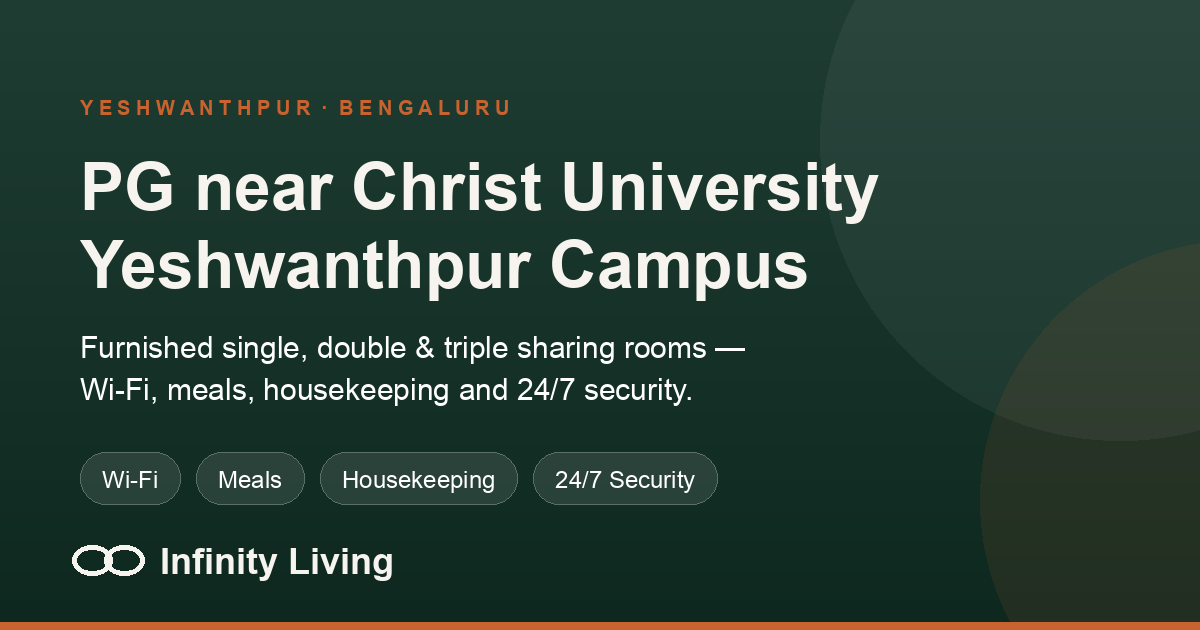
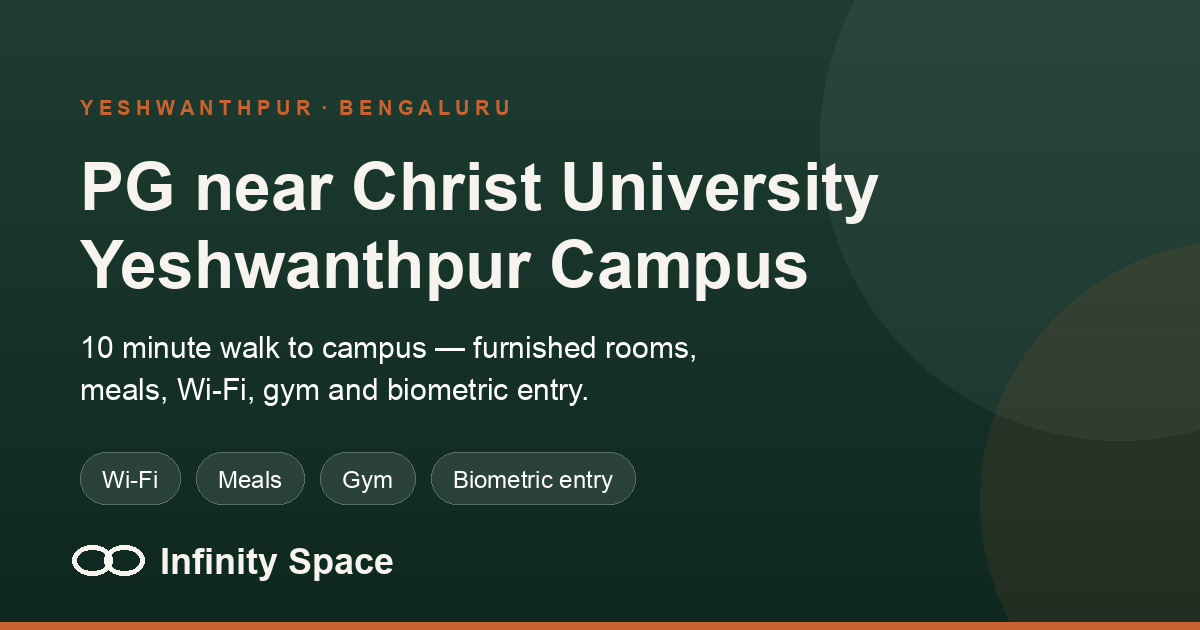
Rename the brand to Infinity Space
Matches the signage in the entrance photo, the Google Business Profile and
infinityspace4u.com. Name/address/phone consistency between the site and the
Google listing is one of the stronger local ranking signals, and the old name
was contradicting the photograph it sat next to.

44 occurrences across 18 files: metadata title and template, Open Graph and
Twitter cards, LocalBusiness JSON-LD, the logo lockup, every image alt, the
WhatsApp prefilled messages, section copy, FAQ answers, both audience pages
and the README.

The OG card was regenerated rather than edited — the old name was baked into
it as pixels. Took the chance to put the now-verified facts on it too: the
10 minute walk, the gym and biometric entry.

Verified: zero "Infinity Living" left in the server-rendered HTML of all
three routes.

diff --git a/src/components/LifeAt.tsx b/src/components/LifeAt.tsx
@@ -11,7 +11,7 @@ export default function LifeAt() {
           <div className="lg:col-span-5 lg:pt-16">
             <Figure
               src="/images/gym.jpg"
-              alt="The gym at Infinity Living PG near Christ University Yeshwanthpur Campus — treadmills, cross trainer and weights"
+              alt="The gym at Infinity Space PG near Christ University Yeshwanthpur Campus — treadmills, cross trainer and weights"
               className="aspect-[4/3] rounded-[1.5rem]"
               sizes="(max-width: 1024px) 100vw, 40vw"
               parallax={6}
@@ -22,7 +22,7 @@ export default function LifeAt() {
             <Reveal>
               <p className="t-label flex items-center gap-3 text-clay">
                 <span className="inline-block h-px w-8 bg-current opacity-50" aria-hidden="true" />
-                Life at Infinity Living
+                Life at Infinity Space
               </p>
             </Reveal>
             <SplitText
@@ -41,13 +41,13 @@ export default function LifeAt() {
             <div className="mt-10 grid gap-5 sm:grid-cols-2">
               <Figure
                 src="/images/living-room-2.jpg"
-                alt="The shared living room at Infinity Living PG, Yeshwanthpur, Bengaluru"
+                alt="The shared living room at Infinity Space PG, Yeshwanthpur, Bengaluru"
                 className="aspect-[4/3] rounded-[1.25rem] sm:mt-10"
                 sizes="(max-width: 640px) 100vw, 30vw"
               />
               <Figure
                 src="/images/entry-biometric.jpg"
-                alt="Biometric entry at Infinity Living PG, Yeshwanthpur, Bengaluru"
+                alt="Biometric entry at Infinity Space PG, Yeshwanthpur, Bengaluru"
                 className="hidden aspect-[3/4] rounded-[1.25rem] sm:block"
                 sizes="(max-width: 640px) 100vw, 30vw"
               />
@@ -56,7 +56,7 @@ export default function LifeAt() {
             <div className="mt-5 grid gap-5 sm:grid-cols-[1.4fr_1fr] sm:items-end">
               <Figure
                 src="/images/room-double.jpg"
-                alt="A double sharing room at Infinity Living PG near Christ University Yeshwanthpur Campus"
+                alt="A double sharing room at Infinity Space PG near Christ University Yeshwanthpur Campus"
                 className="hidden aspect-[16/10] rounded-[1.25rem] sm:block"
                 sizes="(max-width: 640px) 100vw, 35vw"
               />

diff --git a/src/components/Gallery.tsx b/src/components/Gallery.tsx
@@ -8,13 +8,13 @@ import SectionHead from "./ui/SectionHead";
 import Figure from "./ui/Figure";
 
 const SHOTS = [
-  { src: "/images/room-double.jpg", alt: "Double sharing room with two beds, study table and storage at Infinity Living PG, Yeshwanthpur", span: "" },
-  { src: "/images/entrance.jpg", alt: "The entrance at Infinity Living PG near Christ University Yeshwanthpur Campus, Bengaluru", span: "" },
-  { src: "/images/living-room.jpg", alt: "Shared living room with sofa seating at Infinity Living PG, Yeshwanthpur, Bengaluru", span: "" },
-  { src: "/images/gym.jpg", alt: "Gym at Infinity Living PG — treadmills, cross trainer, bench and weights", span: "" },
-  { src: "/images/bathroom.jpg", alt: "Attached bathroom at Infinity Living PG, Yeshwanthpur, Bengaluru", span: "" },
-  { src: "/images/hero.jpg", alt: "Common area with snooker table and lounge seating at Infinity Living PG, Yeshwanthpur", span: "" },
-  { src: "/images/entry-biometric.jpg", alt: "Biometric secure entry at Infinity Living PG, Yeshwanthpur", span: "" },
+  { src: "/images/room-double.jpg", alt: "Double sharing room with two beds, study table and storage at Infinity Space PG, Yeshwanthpur", span: "" },
+  { src: "/images/entrance.jpg", alt: "The entrance at Infinity Space PG near Christ University Yeshwanthpur Campus, Bengaluru", span: "" },
+  { src: "/images/living-room.jpg", alt: "Shared living room with sofa seating at Infinity Space PG, Yeshwanthpur, Bengaluru", span: "" },
+  { src: "/images/gym.jpg", alt: "Gym at Infinity Space PG — treadmills, cross trainer, bench and weights", span: "" },
+  { src: "/images/bathroom.jpg", alt: "Attached bathroom at Infinity Space PG, Yeshwanthpur, Bengaluru", span: "" },
+  { src: "/images/hero.jpg", alt: "Common area with snooker table and lounge seating at Infinity Space PG, Yeshwanthpur", span: "" },
+  { src: "/images/entry-biometric.jpg", alt: "Biometric secure entry at Infinity Space PG, Yeshwanthpur", span: "" },
 ];
 
 export default function Gallery() {

diff --git a/src/lib/site.ts b/src/lib/site.ts
@@ -13,7 +13,7 @@
 export const PLACEHOLDER = (label: string) => `[${label}]`;
 
 export const site = {
-  name: "Infinity Living",
+  name: "Infinity Space",
   tagline: "Premium student living near Christ University, Yeshwanthpur Campus",
   /** Used for canonical URLs, sitemap, OG tags. */
   url: "https://[YOUR-DOMAIN].com",
@@ -25,7 +25,7 @@ export const site = {
     phoneHref: "[PHONE NUMBER]",
     email: "[EMAIL ADDRESS]",
     whatsappMessage:
-      "Hi, I'm interested in a room at Infinity Living near Christ University Yeshwanthpur Campus. Could you share the available room options and pricing?",
+      "Hi, I'm interested in a room at Infinity Space near Christ University Yeshwanthpur Campus. Could you share the available room options and pricing?",
   },
 
   address: {
@@ -264,8 +264,8 @@ export const reviews = [
 
 export const faqs = [
   {
-    q: "How close is Infinity Living to Christ University Yeshwanthpur Campus?",
-    a: "Infinity Living is on Andrahalli Main Road, HMT Layout (560073) — the same pincode as the campus. It is about 850 m by road — roughly a 10 minute walk. Message us on WhatsApp and we'll share the exact pin.",
+    q: "How close is Infinity Space to Christ University Yeshwanthpur Campus?",
+    a: "Infinity Space is on Andrahalli Main Road, HMT Layout (560073) — the same pincode as the campus. It is about 850 m by road — roughly a 10 minute walk. Message us on WhatsApp and we'll share the exact pin.",
   },
   {
     q: "What is the monthly rent?",
@@ -329,7 +329,7 @@ export const isPlaceholder = (v: string) => /^\[.*\]$/.test(v.trim());
  * host is not a parseable URL. Fall back to a valid stand-in so builds,
  * sitemaps and OG tags keep working — swap site.url and this goes away.
  */
-export const FALLBACK_URL = "https://infinity-living.example.com";
+export const FALLBACK_URL = "https://infinity-space.example.com";
 
 export function baseUrl() {
   try {

diff --git a/src/app/layout.tsx b/src/app/layout.tsx
@@ -29,8 +29,8 @@ const jakarta = Plus_Jakarta_Sans({
 export const metadata: Metadata = {
   metadataBase: new URL(baseUrl()),
   title: {
-    default: "PG near Christ University Yeshwanthpur Campus | Infinity Living",
-    template: "%s | Infinity Living",
+    default: "PG near Christ University Yeshwanthpur Campus | Infinity Space",
+    template: "%s | Infinity Space",
   },
   description:
     "Furnished PG in Yeshwanthpur near Christ University Campus, Bengaluru. Single, double & triple sharing rooms with Wi-Fi, meals, housekeeping and 24/7 security.",
@@ -49,14 +49,14 @@ export const metadata: Metadata = {
     locale: "en_IN",
     url: "/",
     siteName: site.name,
-    title: "PG near Christ University Yeshwanthpur Campus | Infinity Living",
+    title: "PG near Christ University Yeshwanthpur Campus | Infinity Space",
     description:
       "Premium student living in Yeshwanthpur, Bengaluru — furnished rooms, meals, Wi-Fi and a short walk to Christ University Yeshwanthpur Campus.",
-    images: [{ url: "/images/og.png", width: 1200, height: 630, type: "image/png", alt: "Infinity Living — PG near Christ University Yeshwanthpur Campus" }],
+    images: [{ url: "/images/og.png", width: 1200, height: 630, type: "image/png", alt: "Infinity Space — PG near Christ University Yeshwanthpur Campus" }],
   },
   twitter: {
     card: "summary_large_image",
-    title: "PG near Christ University Yeshwanthpur Campus | Infinity Living",
+    title: "PG near Christ University Yeshwanthpur Campus | Infinity Space",
     description:
       "Furnished PG in Yeshwanthpur, Bengaluru — rooms, meals, Wi-Fi and 24/7 security, minutes from campus.",
     images: ["/images/og.png"],

diff --git a/src/components/AudiencePage.tsx b/src/components/AudiencePage.tsx
@@ -28,7 +28,7 @@ export default function AudiencePage({ a }: { a: Audience }) {
               href="/"
               className="link-u inline-flex items-center gap-2 text-[0.875rem] text-white/60 hover:text-white"
             >
-              <ArrowLeft className="size-4" aria-hidden="true" /> Infinity Living
+              <ArrowLeft className="size-4" aria-hidden="true" /> Infinity Space
             </a>
             <p className="t-label mt-6 text-clay">{a.eyebrow}</p>
             <SplitText
@@ -42,7 +42,7 @@ export default function AudiencePage({ a }: { a: Audience }) {
               <div className="mt-8 flex flex-wrap gap-3">
                 <Button
                   href={whatsappHref(
-                    `Hi, I'm interested in the ${a.h1.split(",")[0].toLowerCase()} at Infinity Living. Could you share availability and pricing?`
+                    `Hi, I'm interested in the ${a.h1.split(",")[0].toLowerCase()} at Infinity Space. Could you share availability and pricing?`
                   )}
                   target="_blank"
                   rel="noopener noreferrer"
@@ -98,7 +98,7 @@ export default function AudiencePage({ a }: { a: Audience }) {
               </div>
               <Figure
                 src={["/images/room-double.jpg", "/images/entrance.jpg", "/images/living-room.jpg"][i % 3]}
-                alt={`${s.h2} — Infinity Living, Yeshwanthpur, Bengaluru`}
+                alt={`${s.h2} — Infinity Space, Yeshwanthpur, Bengaluru`}
                 className="aspect-[4/3] rounded-[1.5rem] lg:aspect-[4/5]"
                 sizes="(max-width: 1024px) 100vw, 45vw"
               />

diff --git a/src/components/Food.tsx b/src/components/Food.tsx
@@ -11,11 +11,11 @@ const MEALS = [
 ];
 
 const SHOTS = [
-  { src: "/images/food-1.svg", alt: "Breakfast served at Infinity Living PG, Yeshwanthpur" },
-  { src: "/images/food-2.svg", alt: "Lunch thali served at Infinity Living PG near Christ University" },
-  { src: "/images/food-3.svg", alt: "Dinner spread at Infinity Living student accommodation, Bengaluru" },
-  { src: "/images/food-4.svg", alt: "Clean kitchen at Infinity Living PG, Yeshwanthpur" },
-  { src: "/images/food-5.svg", alt: "Dining area at Infinity Living PG, Yeshwanthpur, Bengaluru" },
+  { src: "/images/food-1.svg", alt: "Breakfast served at Infinity Space PG, Yeshwanthpur" },
+  { src: "/images/food-2.svg", alt: "Lunch thali served at Infinity Space PG near Christ University" },
+  { src: "/images/food-3.svg", alt: "Dinner spread at Infinity Space student accommodation, Bengaluru" },
+  { src: "/images/food-4.svg", alt: "Clean kitchen at Infinity Space PG, Yeshwanthpur" },
+  { src: "/images/food-5.svg", alt: "Dining area at Infinity Space PG, Yeshwanthpur, Bengaluru" },
 ];
 
 export default function Food() {

diff --git a/src/components/RoomModal.tsx b/src/components/RoomModal.tsx
@@ -58,7 +58,7 @@ export default function RoomModal({
               <Image
                 key={src}
                 src={src}
-                alt={`${room.name} room at Infinity Living — view ${idx + 1}`}
+                alt={`${room.name} room at Infinity Space — view ${idx + 1}`}
                 fill
                 sizes="(max-width: 768px) 100vw, 55vw"
                 className={`object-cover transition-opacity duration-500 ${
@@ -139,7 +139,7 @@ export default function RoomModal({
               </Button>
               <Button
                 href={whatsappHref(
-                  `Hi, I'm interested in the ${room.name} room at Infinity Living near Christ University Yeshwanthpur Campus. Is it available, and what is the rent?`
+                  `Hi, I'm interested in the ${room.name} room at Infinity Space near Christ University Yeshwanthpur Campus. Is it available, and what is the rent?`
                 )}
                 target="_blank"
                 rel="noopener noreferrer"

diff --git a/src/app/privacy/page.tsx b/src/app/privacy/page.tsx
@@ -4,7 +4,7 @@ import Footer from "@/components/Footer";
 
 export const metadata: Metadata = {
   title: "Privacy Policy",
-  description: "How Infinity Living handles the information you share when you enquire about a room.",
+  description: "How Infinity Space handles the information you share when you enquire about a room.",
   robots: { index: false, follow: true },
 };
 
@@ -25,7 +25,7 @@ export default function Privacy() {
               accommodation requirements.
             </p>
             <p>
-              We use this only to respond to your enquiry about a room at Infinity Living. We do not
+              We use this only to respond to your enquiry about a room at Infinity Space. We do not
               sell your details to brokers, listing platforms or third parties.
             </p>
             <p>[RETENTION PERIOD — CONFIRM]. [DATA CONTROLLER NAME & ADDRESS — CONFIRM].</p>

diff --git a/src/components/Rooms.tsx b/src/components/Rooms.tsx
@@ -20,7 +20,7 @@ function RoomCard({ room, onOpen }: { room: Room; onOpen: () => void }) {
         <div className="relative aspect-[4/5] overflow-hidden rounded-[1.5rem] bg-moss-2 transition-transform duration-[600ms] ease-[cubic-bezier(0.22,1,0.36,1)] group-hover:-translate-y-1.5">
           <Image
             src={room.image}
-            alt={`${room.name} room — ${room.occupancy} — at Infinity Living PG, Yeshwanthpur`}
+            alt={`${room.name} room — ${room.occupancy} — at Infinity Space PG, Yeshwanthpur`}
             fill
             sizes="(max-width: 640px) 82vw, (max-width: 1024px) 46vw, 31vw"
             className="object-cover transition-transform duration-[900ms] ease-[cubic-bezier(0.22,1,0.36,1)] group-hover:scale-[1.06]"

diff --git a/src/components/Hero.tsx b/src/components/Hero.tsx
@@ -125,7 +125,7 @@ export default function Hero() {
       <div data-h="img" className="absolute inset-0 -z-20 will-change-transform">
         <Image
           src="/images/hero.jpg"
-          alt="The common area at Infinity Living PG near Christ University Yeshwanthpur Campus, Bengaluru — lounge seating, snooker table and gym"
+          alt="The common area at Infinity Space PG near Christ University Yeshwanthpur Campus, Bengaluru — lounge seating, snooker table and gym"
           fill
           priority
           // Full-bleed background: one source at every width, so let the

diff --git a/src/components/Location.tsx b/src/components/Location.tsx
@@ -27,7 +27,7 @@ export default function Location() {
               {site.address.mapsEmbedUrl ? (
                 <iframe
                   src={site.address.mapsEmbedUrl}
-                  title="Map showing Infinity Living PG near Christ University Yeshwanthpur Campus, Bengaluru"
+                  title="Map showing Infinity Space PG near Christ University Yeshwanthpur Campus, Bengaluru"
                   loading="lazy"
                   referrerPolicy="no-referrer-when-downgrade"
                   className="absolute inset-0 size-full border-0"

diff --git a/src/components/ParentTrust.tsx b/src/components/ParentTrust.tsx
@@ -23,7 +23,7 @@ export default function ParentTrust() {
       <div className="shell grid gap-12 lg:grid-cols-[1fr_1.15fr] lg:items-center lg:gap-16">
         <Figure
           src="/images/entrance.jpg"
-          alt="The entrance at Infinity Living PG near Christ University Yeshwanthpur Campus, Bengaluru"
+          alt="The entrance at Infinity Space PG near Christ University Yeshwanthpur Campus, Bengaluru"
           className="aspect-[4/5] rounded-[1.5rem]"
           sizes="(max-width: 1024px) 100vw, 42vw"
         />
